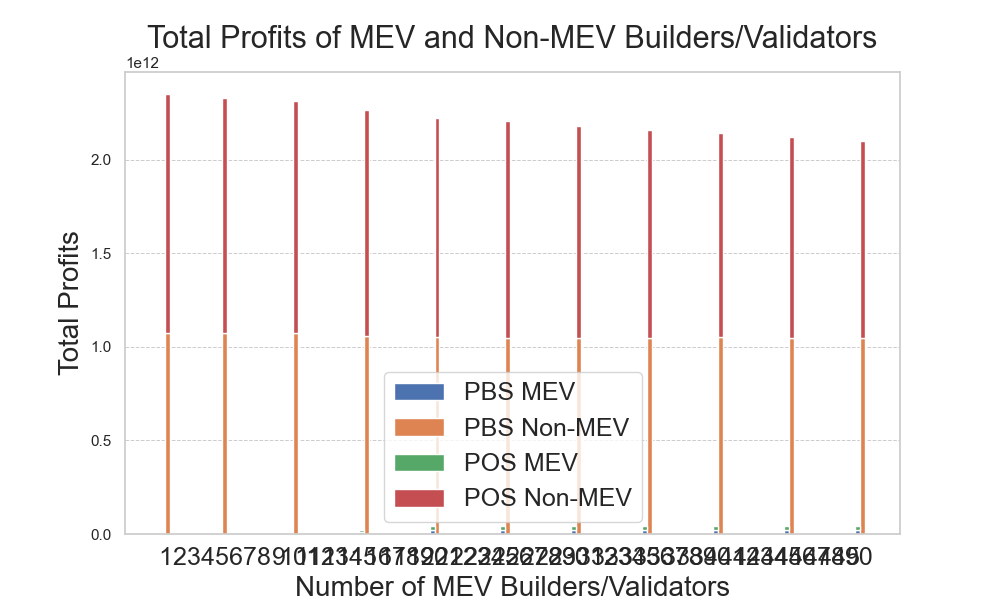
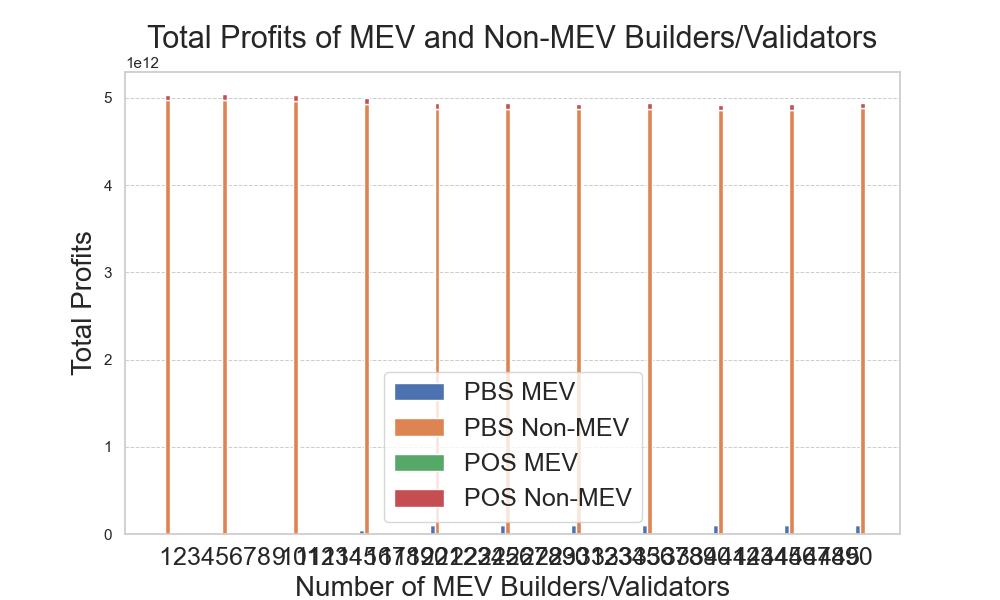
unfinished debug

diff --git a/plots/new/100_run_plot.py b/plots/new/100_run_plot.py
@@ -58,8 +58,8 @@ def calculate_gini_statistics(profits):
             gini_values = [compute_gini(run) for run in runs if len(run) > 0]
             if gini_values:
                 mean_gini = np.mean(gini_values)
-                lower_ci = np.percentile(gini_values, 16)
-                upper_ci = np.percentile(gini_values, 84)
+                lower_ci = np.percentile(gini_values, 2.5)
+                upper_ci = np.percentile(gini_values, 97.5)
                 gini_stats[system][mev_count] = (mean_gini, lower_ci, upper_ci)
             else:
                 gini_stats[system][mev_count] = (np.nan, np.nan, np.nan)
@@ -96,8 +96,8 @@ def plot_gini_with_confidence(data_dir, mev_counts):
     fig, ax = plt.subplots(figsize=(10, 6))
     sns.lineplot(x=x_pbs, y=y_pbs, label='PBS', ax=ax)
     sns.lineplot(x=x_pos, y=y_pos, label='POS', ax=ax)
-    ax.fill_between(x_pbs, lower_ci_pbs_smooth, upper_ci_pbs_smooth, color='blue', alpha=0.2, label='68% CI')
-    ax.fill_between(x_pos, lower_ci_pos_smooth, upper_ci_pos_smooth, color='orange', alpha=0.2, label='68% CI')
+    ax.fill_between(x_pbs, lower_ci_pbs_smooth, upper_ci_pbs_smooth, color='blue', alpha=0.2, label='95% CI')
+    ax.fill_between(x_pos, lower_ci_pos_smooth, upper_ci_pos_smooth, color='orange', alpha=0.2, label='95% CI')
 
     ax.set_xlabel('Number of MEV Builders/Validators', fontsize=20)
     ax.set_ylabel('Gini Coefficient', fontsize=20)
@@ -109,7 +109,7 @@ def plot_gini_with_confidence(data_dir, mev_counts):
     ax.xaxis.grid(False)
     ax.yaxis.grid(True, which='both', linestyle='--', linewidth=0.7)
 
-    plt.title('Gini Coefficient with 68% Confidence Intervals', fontsize=22)
+    plt.title('Gini Coefficient with 95% Confidence Intervals', fontsize=22)
     plt.savefig('figures/new/gini_coefficient_with_confidence_bands.png')
     plt.close()
 
@@ -150,15 +150,15 @@ def plot_total_profits(data_dir, mev_counts):
     width = 0.35
     indices = np.arange(len(mev_counts))
 
-    bars1 = ax.bar(indices - width/2, total_profits['pbs']['mev'], width, label='PBS MEV')
-    bars2 = ax.bar(indices + width/2, total_profits['pbs']['non_mev'], width, label='PBS Non-MEV')
-    bars3 = ax.bar(indices - width/2, total_profits['pos']['mev'], width, bottom=total_profits['pbs']['mev'], label='POS MEV')
-    bars4 = ax.bar(indices + width/2, total_profits['pos']['non_mev'], width, bottom=total_profits['pbs']['non_mev'], label='POS Non-MEV')
+    bars_pbs_mev = ax.bar(indices - width/2, total_profits['pbs']['mev'], width, label='PBS MEV', color='blue')
+    bars_pos_mev = ax.bar(indices + width/2, total_profits['pos']['mev'], width, label='POS MEV', color='orange')
+    bars_pbs_non_mev = ax.bar(indices - width/2, total_profits['pbs']['non_mev'], width, bottom=total_profits['pbs']['mev'], color='lightblue', label='PBS Non-MEV')
+    bars_pos_non_mev = ax.bar(indices + width/2, total_profits['pos']['non_mev'], width, bottom=total_profits['pos']['mev'], color='lightcoral', label='POS Non-MEV')
 
     ax.set_xlabel('Number of MEV Builders/Validators', fontsize=20)
     ax.set_ylabel('Total Profits', fontsize=20)
     ax.set_xticks(indices)
-    ax.set_xticklabels(mev_counts, fontsize=18)
+    ax.set_xticklabels([1, 5, 10, 15, 20, 25, 30, 35, 40, 45, 50], fontsize=18)
     ax.legend(fontsize=18)
     ax.grid(True)
     ax.xaxis.grid(True)
